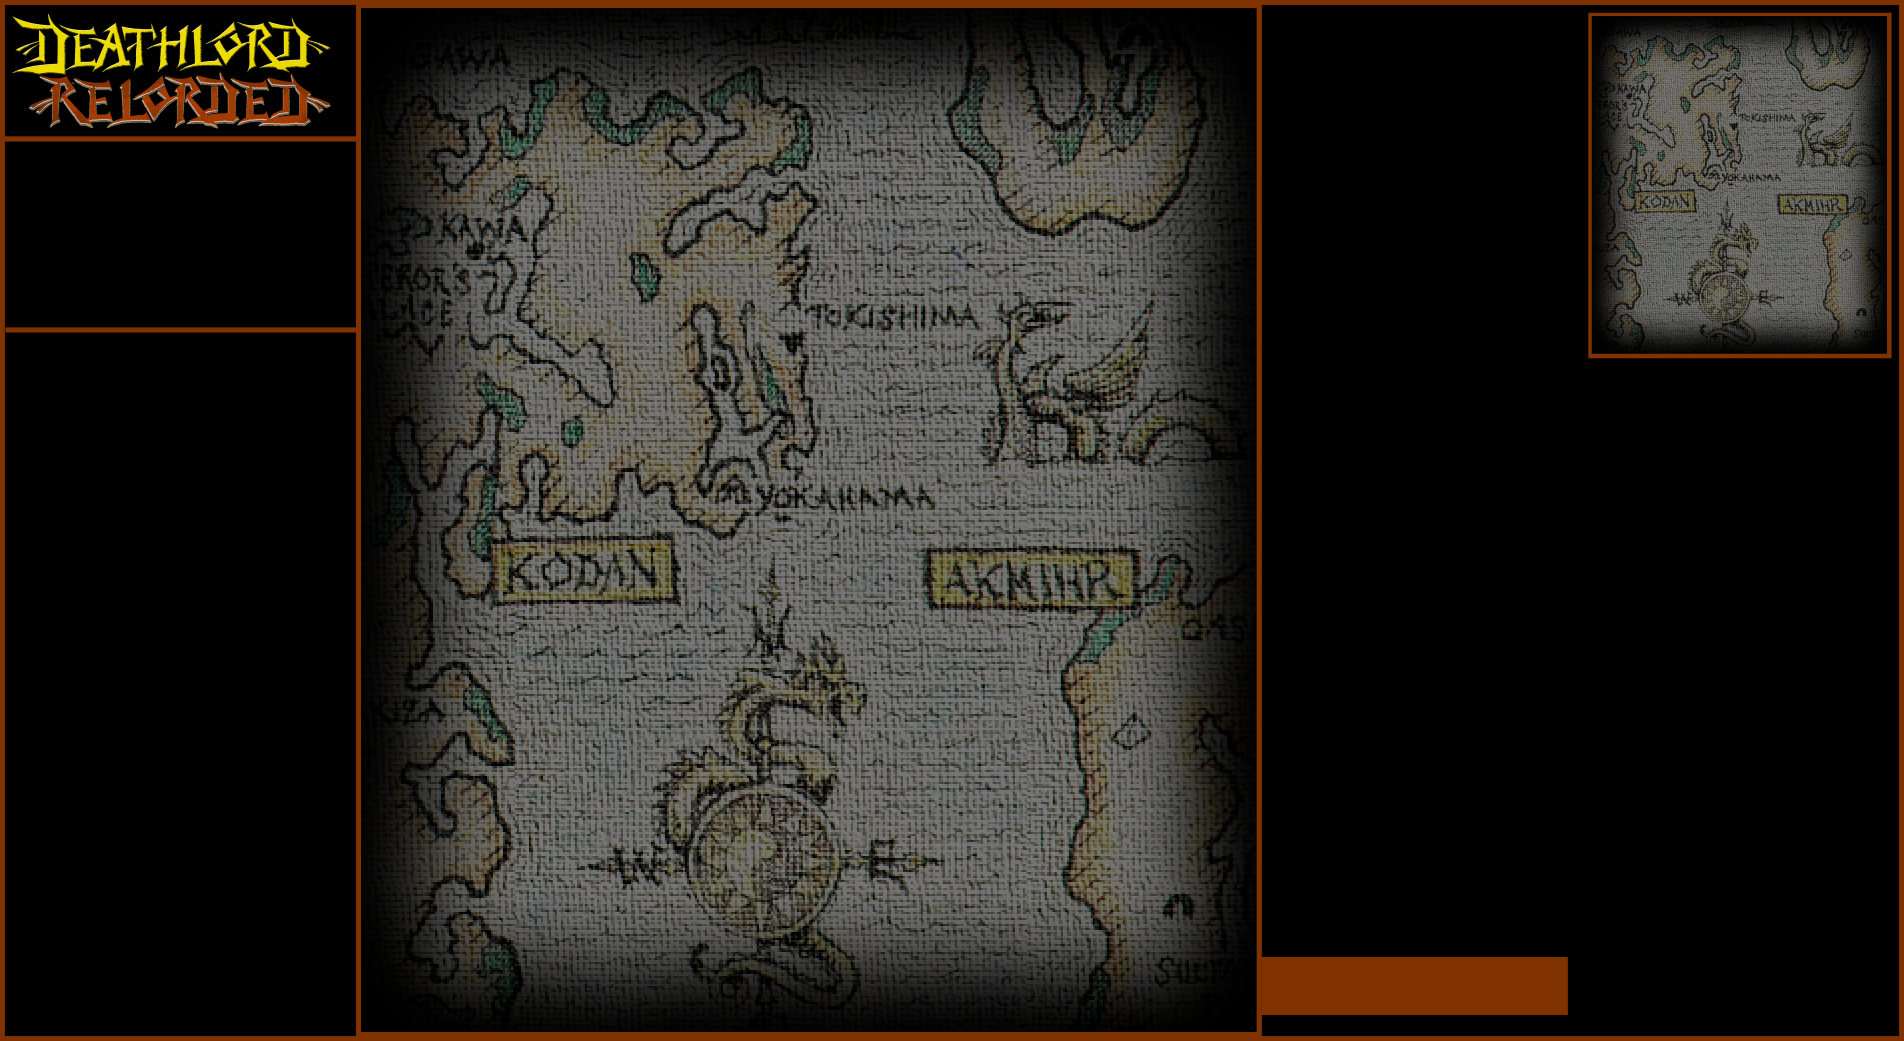
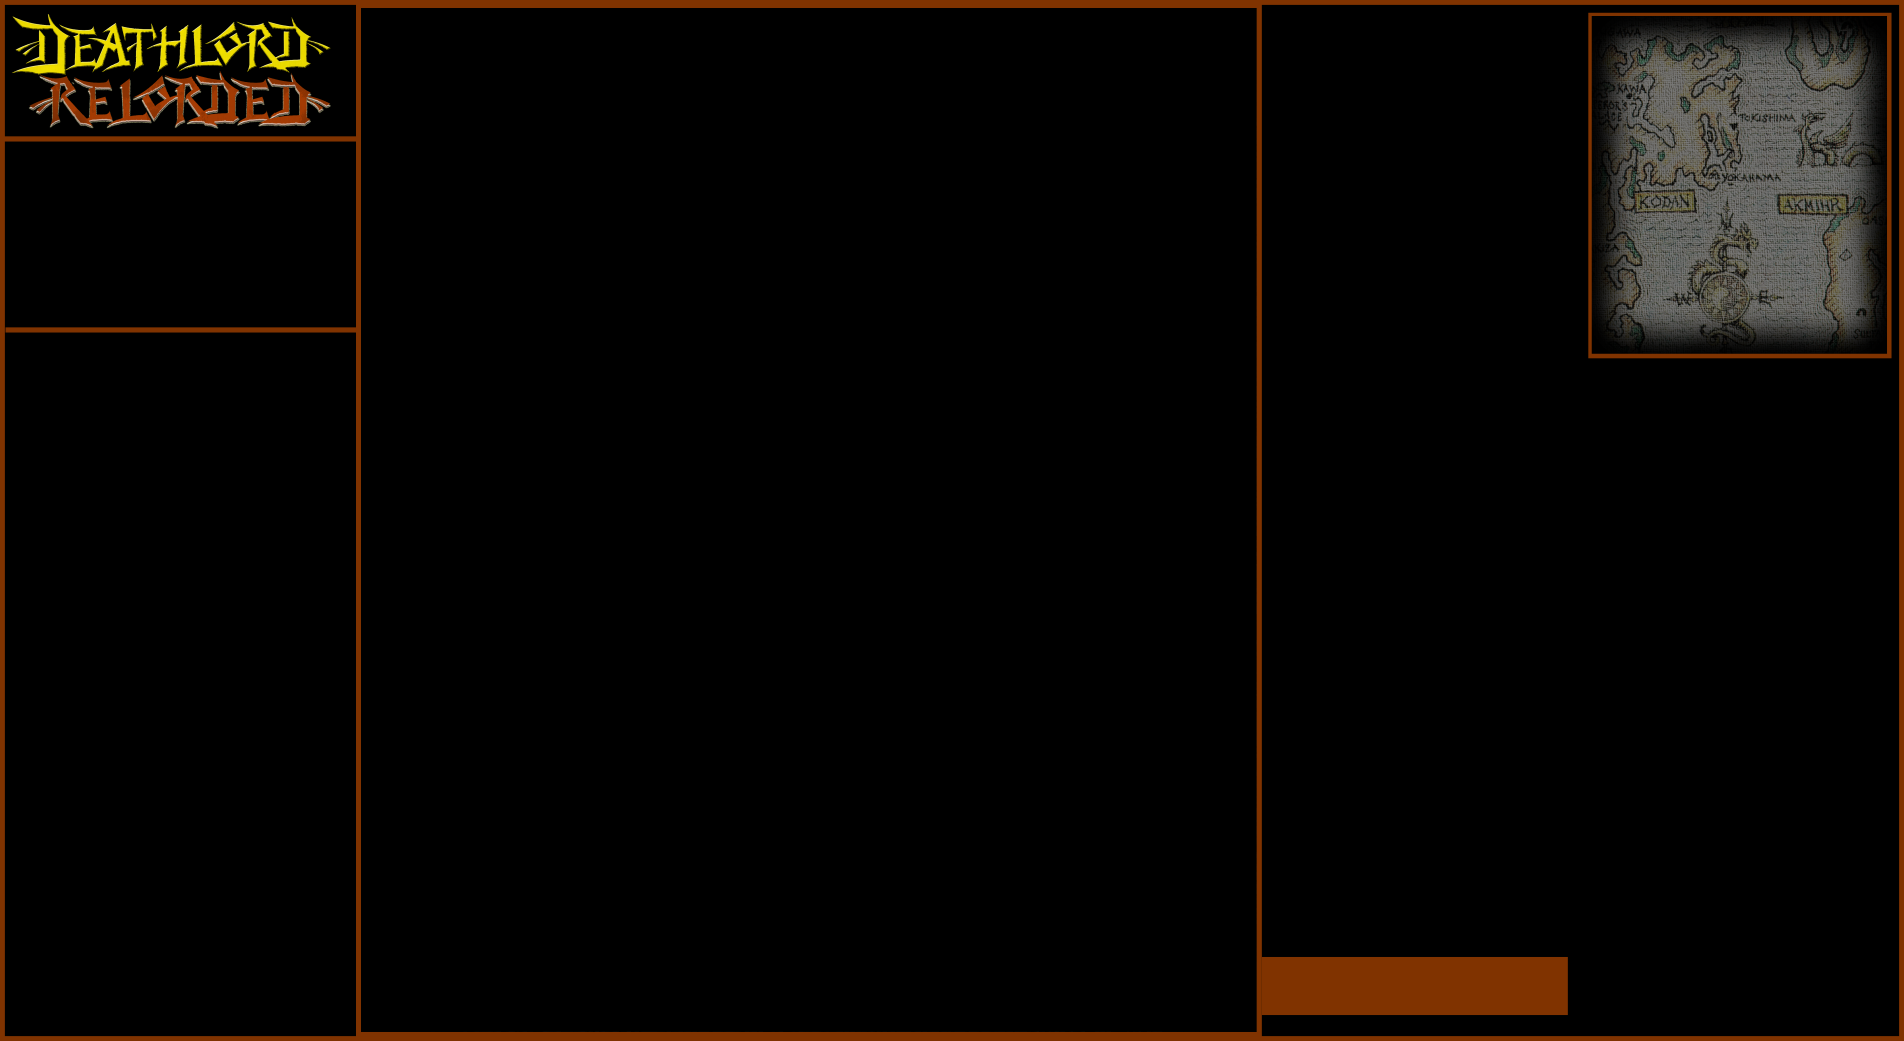
Removed grass background. It should always be black.

diff --git a/Deathlord-Relorded/AutoMap.cpp b/Deathlord-Relorded/AutoMap.cpp
@@ -442,25 +442,10 @@ void AutoMap::DrawAutoMap(std::shared_ptr<DirectX::SpriteBatch>& spriteBatch, Di
 		// Whatever happens we must show the transition right now
 		spriteBatch->Begin(commandList, states->LinearWrap(), DirectX::SpriteSortMode_Deferred);
 		auto mmBGTexSize = GetTextureSize(m_autoMapTextureBG.Get());
-		spriteBatch->Draw(m_resourceDescriptors->GetGpuHandle((int)TextureDescriptors::AutoMapBackground), mmBGTexSize,
+		spriteBatch->Draw(m_resourceDescriptors->GetGpuHandle((int)TextureDescriptors::AutoMapBackgroundTransition), mmBGTexSize,
 			*mapRect, nullptr, Colors::White, 0.f, XMFLOAT2());
 		spriteBatch->End();
 		return;
-	}
-	else
-	{
-		// For towns, draw a grass background just like in the original game
-		// Dungeons have walls blocking their map borders, and overland is handled in a special way below
-		if (MemGetMainPtr(MAP_TYPE)[0] == (UINT8)MapType::Town)
-		{
-			// Needs a spriteBatch begin/end because the next phase plays with the scissorrects
-			spriteBatch->Begin(commandList, states->LinearWrap(), DirectX::SpriteSortMode_Deferred);
-			auto mmBGGrassTexSize = GetTextureSize(m_autoMapTextureBGGrass.Get());
-			// nullptr here is the source rectangle. We're drawing the full background
-			spriteBatch->Draw(m_resourceDescriptors->GetGpuHandle((int)TextureDescriptors::AutoMapBackgroundGrass), mmBGGrassTexSize,
-				*mapRect, nullptr, Colors::White, 0.f, XMFLOAT2());
-			spriteBatch->End();
-		}
 	}
 
 	spriteBatch->Begin(commandList, states->LinearWrap(), DirectX::SpriteSortMode_Deferred);
@@ -723,7 +708,7 @@ void AutoMap::DrawAutoMap(std::shared_ptr<DirectX::SpriteBatch>& spriteBatch, Di
 	{
 		auto mmBGTexSize = GetTextureSize(m_autoMapTextureBG.Get());
 		// nullptr here is the source rectangle. We're drawing the full background
-		spriteBatch->Draw(m_resourceDescriptors->GetGpuHandle((int)TextureDescriptors::AutoMapBackground), mmBGTexSize,
+		spriteBatch->Draw(m_resourceDescriptors->GetGpuHandle((int)TextureDescriptors::AutoMapBackgroundTransition), mmBGTexSize,
 			m_currentMapRect, nullptr, Colors::White, 0.f, XMFLOAT2());
 		// write text on top of automap area
 		Vector2 awaitTextPos(
@@ -753,12 +738,7 @@ void AutoMap::CreateDeviceDependentResources(ResourceUploadBatch* resourceUpload
 		CreateWICTextureFromFile(device, *resourceUpload, L"Assets/Background_NoMap.png",
 			m_autoMapTextureBG.ReleaseAndGetAddressOf()));
 	CreateShaderResourceView(device, m_autoMapTextureBG.Get(),
-		m_resourceDescriptors->GetCpuHandle((int)TextureDescriptors::AutoMapBackground));
-	DX::ThrowIfFailed(
-		CreateWICTextureFromFile(device, *resourceUpload, L"Assets/Background_Grass_32x32.png",
-			m_autoMapTextureBGGrass.ReleaseAndGetAddressOf()));
-	CreateShaderResourceView(device, m_autoMapTextureBGGrass.Get(),
-		m_resourceDescriptors->GetCpuHandle((int)TextureDescriptors::AutoMapBackgroundGrass));
+		m_resourceDescriptors->GetCpuHandle((int)TextureDescriptors::AutoMapBackgroundTransition));
 	DX::ThrowIfFailed(
 		CreateWICTextureFromFile(device, *resourceUpload, L"Assets/PlayerSprite.png",
 			m_autoMapAvatar.ReleaseAndGetAddressOf()));
@@ -775,7 +755,6 @@ void AutoMap::OnDeviceLost()
 {
 	m_autoMapTexture.Reset();
 	m_autoMapTextureBG.Reset();
-	m_autoMapTextureBGGrass.Reset();
 	m_autoMapAvatar.Reset();
 	m_autoMapSpriteSheet.Reset();
 }

diff --git a/Deathlord-Relorded/AutoMap.h b/Deathlord-Relorded/AutoMap.h
@@ -125,7 +125,6 @@ private:
 	DX::DeviceResources* m_deviceResources;
 	DescriptorHeap* m_resourceDescriptors;
 	Microsoft::WRL::ComPtr<ID3D12Resource> m_autoMapTextureBG;
-	Microsoft::WRL::ComPtr<ID3D12Resource> m_autoMapTextureBGGrass;
 	Microsoft::WRL::ComPtr<ID3D12Resource> m_autoMapTexture;
 	Microsoft::WRL::ComPtr<ID3D12Resource> m_autoMapAvatar;
 	Microsoft::WRL::ComPtr<ID3D12Resource> m_autoMapSpriteSheet;

diff --git a/Deathlord-Relorded/Descriptors.h b/Deathlord-Relorded/Descriptors.h
@@ -5,8 +5,7 @@ enum class TextureDescriptors
 {
 	MainBackground,
     Apple2Video,
-	AutoMapBackground,
-	AutoMapBackgroundGrass,
+	AutoMapBackgroundTransition,
 	AutoMapTileSheet,
 	AutoMapAvatar,
 	AutoMapTileHidden,
